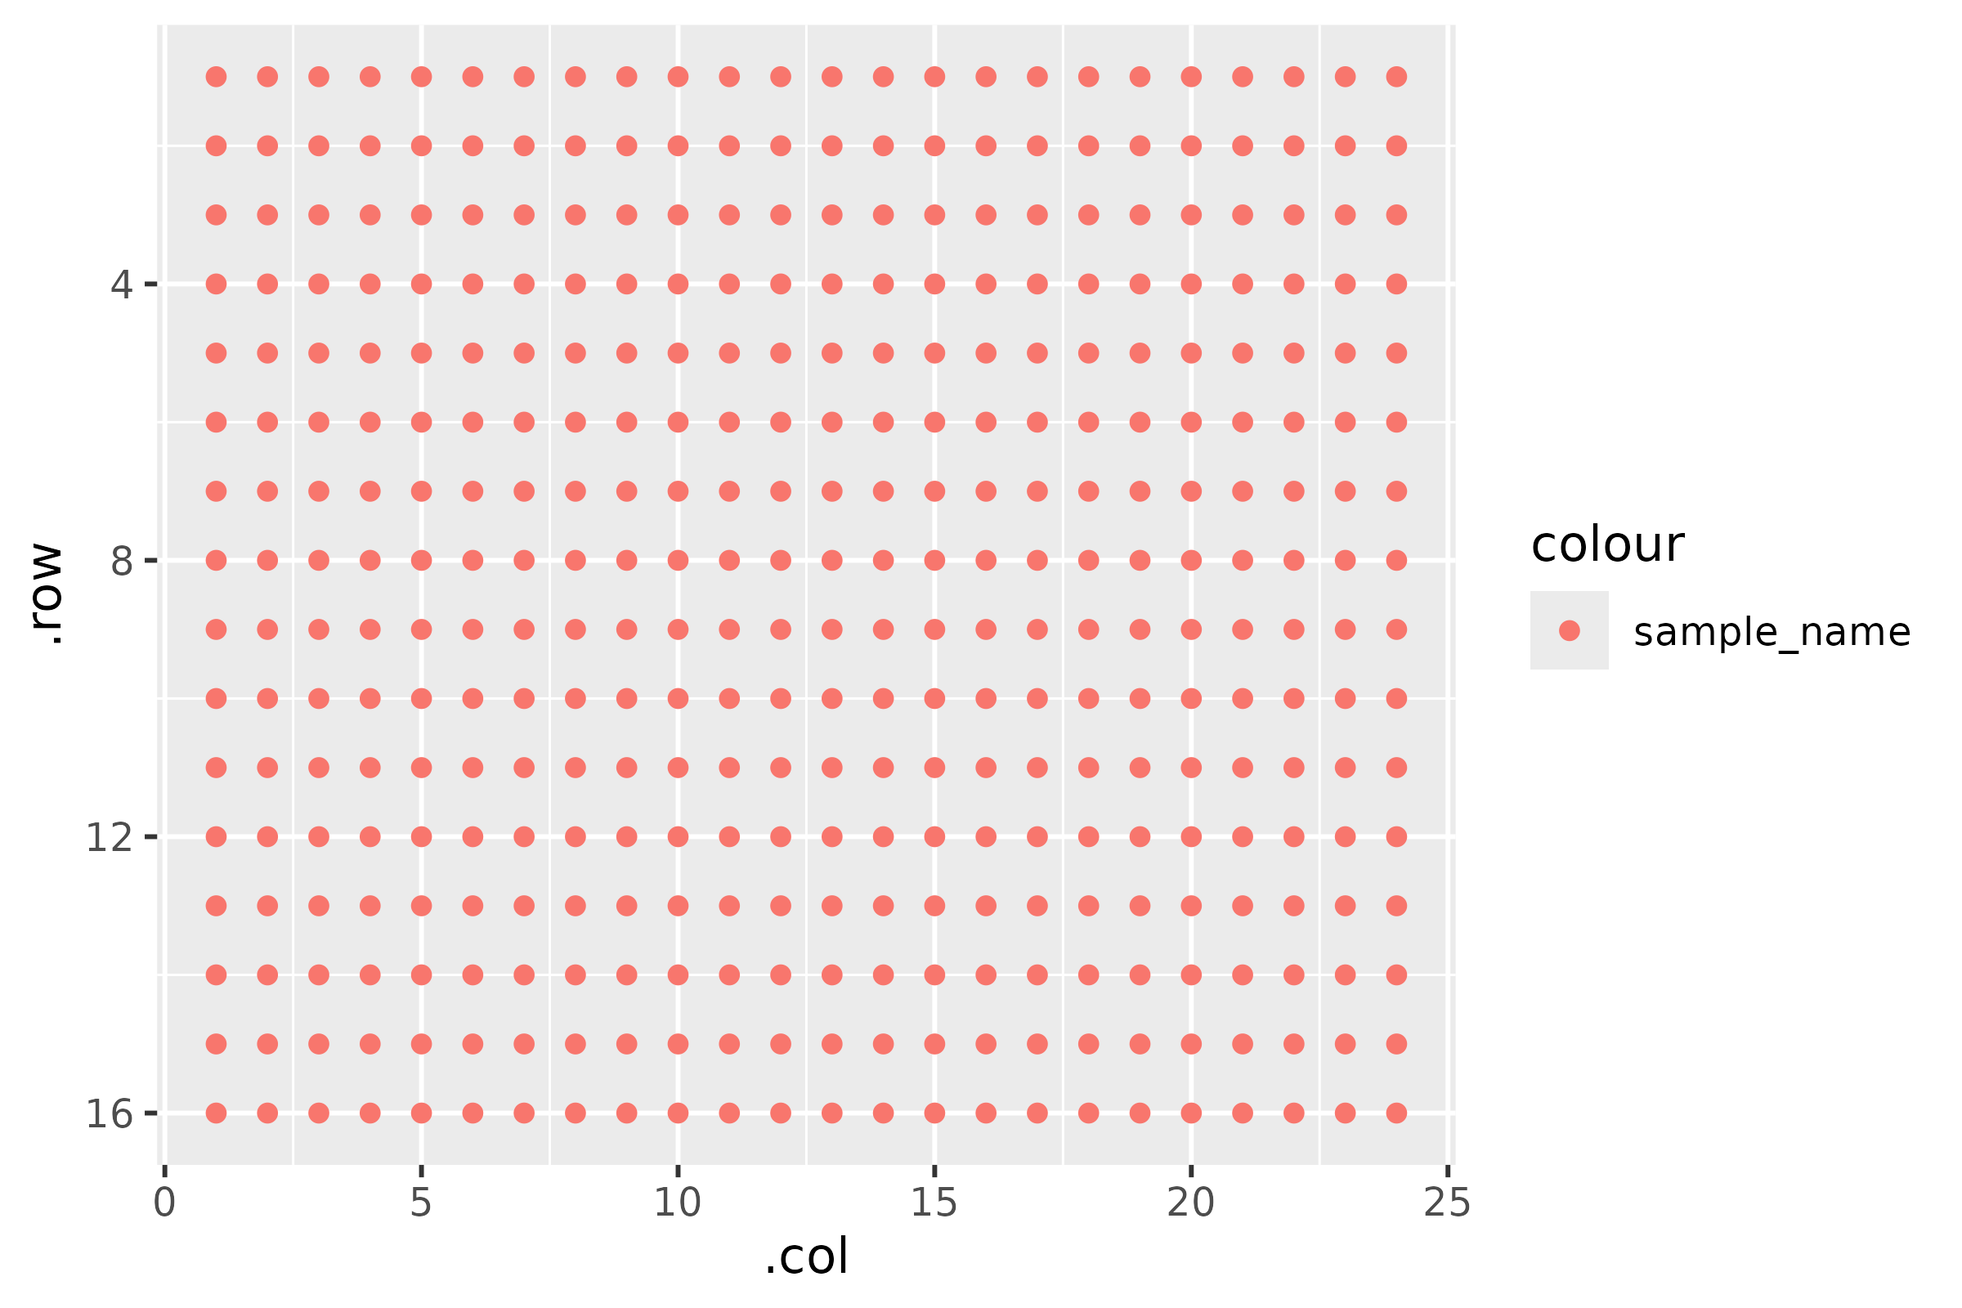
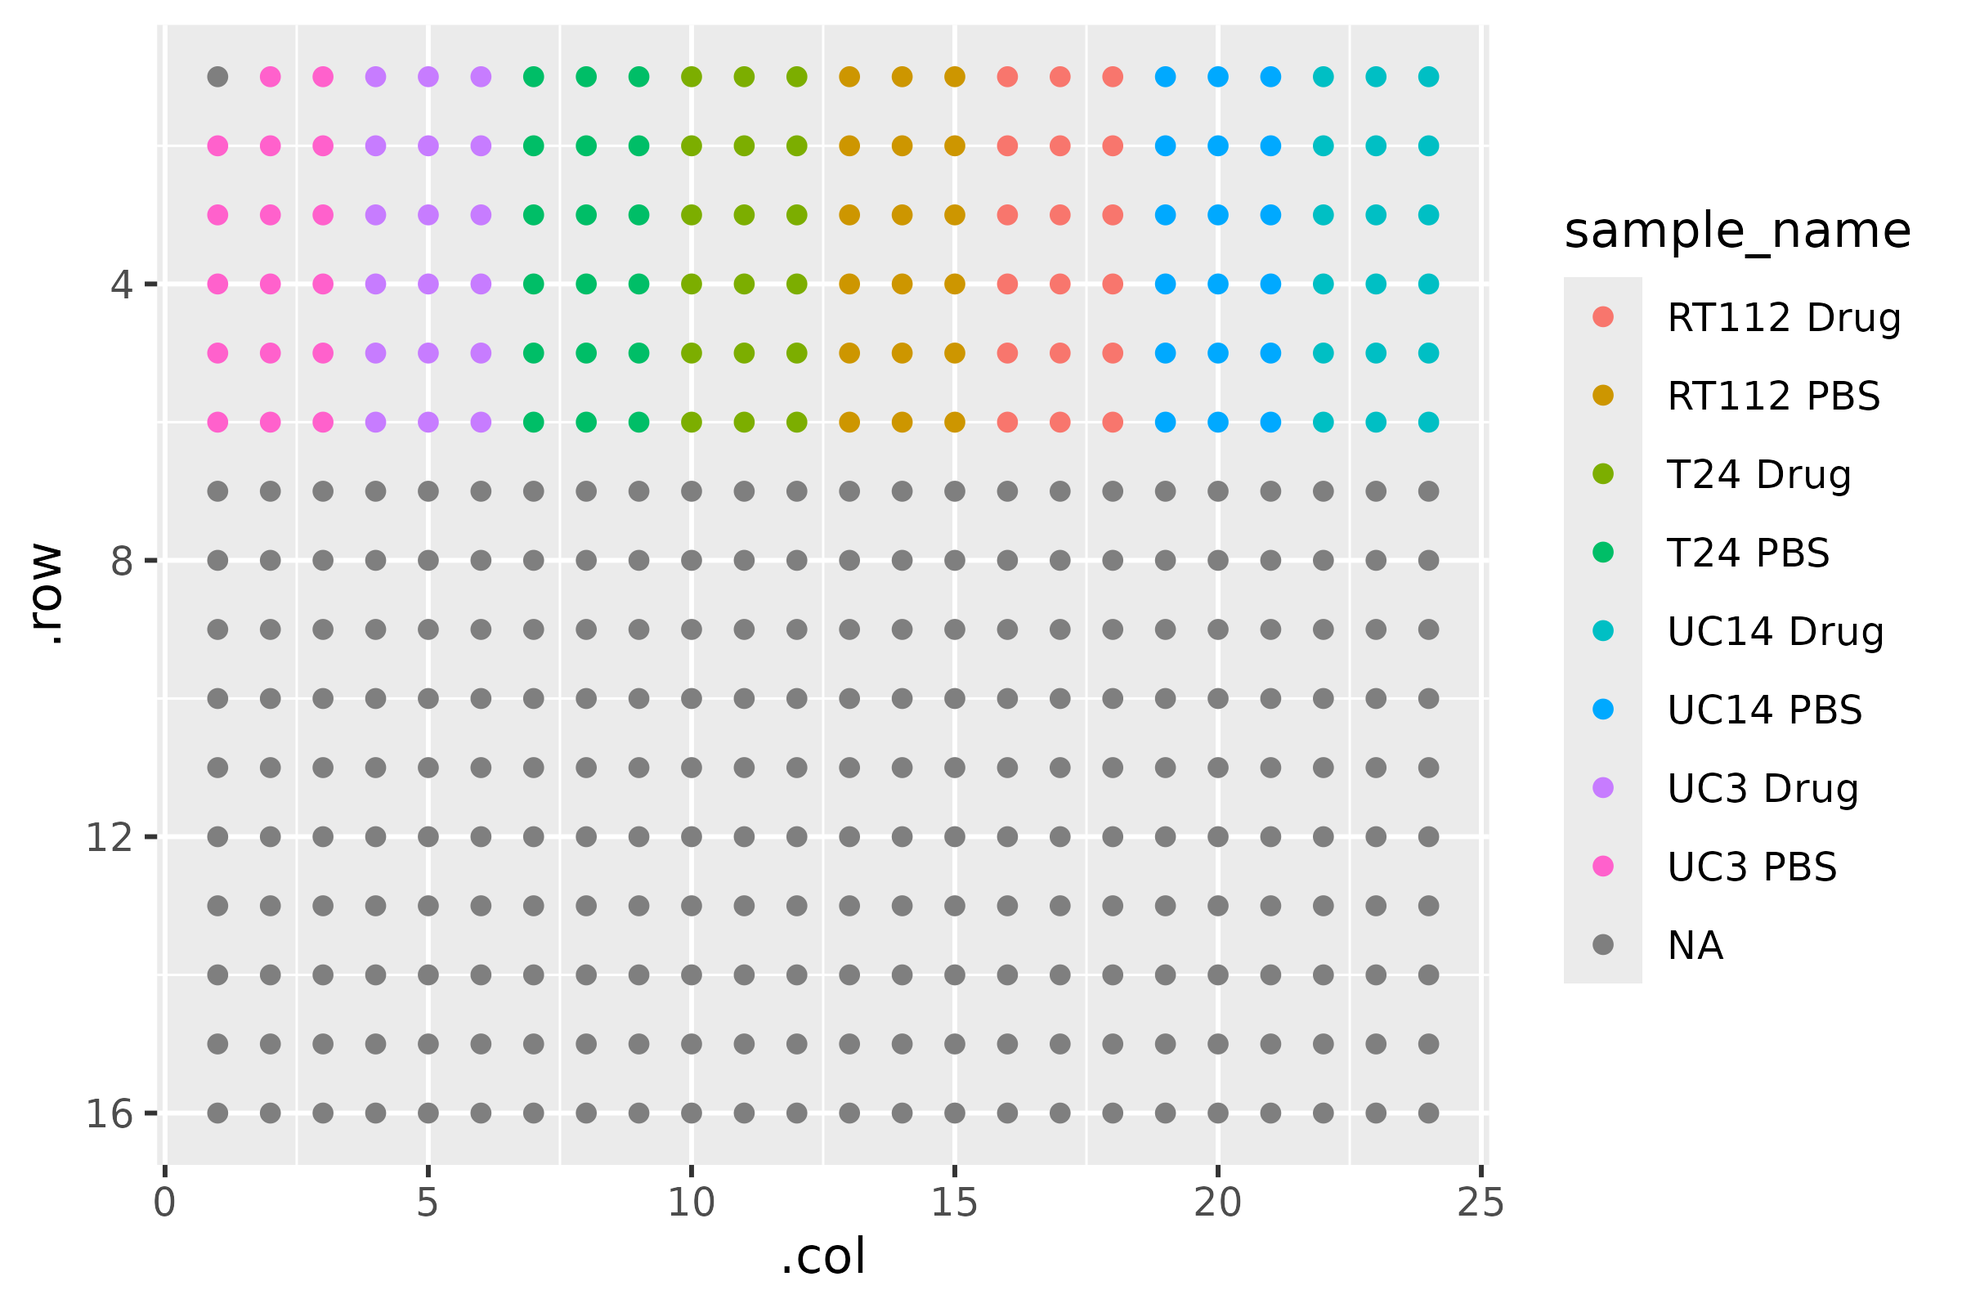
Deploying to gh-pages from @ KaiAragaki/amplify@96f5967ca5eb18fe3345773895a73796bcb9efaa 🚀

diff --git a/reference/pcr_plan_report.html b/reference/pcr_plan_report.html
@@ -66,7 +66,69 @@
     <div class="sourceCode"><pre class="sourceCode r"><code><span class="r-in"><span><span class="va">dummy_rna_conc</span> <span class="op">|&gt;</span></span></span>
 <span class="r-in"><span>  <span class="fu"><a href="pcr_plan.html">pcr_plan</a></span><span class="op">(</span>n_primers <span class="op">=</span> <span class="fl">3</span><span class="op">)</span> <span class="op">|&gt;</span></span></span>
 <span class="r-in"><span>  <span class="fu">pcr_plan_report</span><span class="op">(</span><span class="op">)</span></span></span>
-<span class="r-err co"><span class="r-pr">#&gt;</span> <span class="error">Error in Summary.factor(structure(c(1L, 1L, 1L, 1L, 1L, 1L, 1L, 1L, 1L, 1L, 1L, 1L, 1L, 1L, 1L, 1L, 1L, 1L, 1L, 1L, 1L, 1L, 1L, 1L, 1L, 1L, 1L, 2L, 2L, 2L, 2L, 2L, 2L, 2L, 2L, 2L, 2L, 2L, 2L, 2L, 2L, 2L, 2L, 2L, 2L, 2L, 2L, 2L, 2L, 2L, 2L, 2L, 2L, 2L, 3L, 3L, 3L, 3L, 3L, 3L, 3L, 3L, 3L, 3L, 3L, 3L, 3L, 3L, 3L, 3L, 3L, 3L, 3L, 3L, 3L, 3L, 3L, 3L, 3L, 3L, 3L, NA, NA, NA, NA, NA, NA, NA, NA, NA, NA, NA, NA, NA, NA, NA, NA, NA, NA, NA, NA, NA, NA, NA, NA, NA, NA, NA, NA, NA, NA, NA, NA, NA, NA, NA, NA, NA, NA, NA, NA, NA, NA, NA, NA, NA, NA, NA, NA, NA, NA, NA, NA, NA, NA, NA, NA, NA, NA, NA, NA, NA, NA, NA, NA, NA, NA, NA, NA, NA, NA, NA, NA, NA, NA, NA, NA, NA, NA, NA, NA, NA, NA, NA, NA, NA, NA, NA, NA, NA, NA, NA, NA, NA, NA, NA, NA, NA, NA, NA, NA, NA, NA, NA, NA, NA, NA, NA, NA, NA, NA, NA, NA, NA, NA, NA, NA, NA, NA, NA, NA, NA, NA, NA, NA, NA, NA, NA, NA, NA, NA, NA, NA, NA, NA, NA, NA, NA, NA, NA, NA, NA, NA, NA, NA, NA, NA, NA, NA, NA, NA, NA, NA, NA, NA, NA, NA, NA, NA, NA, NA, NA, NA, NA, NA, NA, NA, NA, NA, NA, NA, NA, NA, NA, NA, NA, NA, NA, NA, NA, NA, NA, NA, NA, NA, NA, NA, NA, NA, NA, NA, NA, NA, NA, NA, NA, NA, NA, NA, NA, NA, NA, NA, NA, NA, NA, NA, NA, NA, NA, NA, NA, NA, NA, NA, NA, NA, NA, NA, NA, NA, NA, NA, NA, NA, NA, NA, NA, NA, NA, NA, NA, NA, NA, NA, NA, NA, NA, NA, NA, NA, NA, NA, NA, NA, NA, NA, NA, NA, NA, NA, NA, NA, NA, NA, NA, NA, NA, NA, NA, NA, NA, NA, NA, NA, NA, NA, NA, NA, NA, NA, NA, NA, NA, NA, NA, NA, NA, NA, NA, NA, NA, NA, NA, NA, NA, NA, NA, NA, NA, NA, NA, NA, NA, NA, NA, NA, NA, NA, NA, NA, NA, NA, NA), levels = c("1", "2", "3"), class = "factor"),     na.rm = TRUE):</span> ‘max’ not meaningful for factors</span>
+<span class="r-msg co"><span class="r-pr">#&gt;</span> </span>
+<span class="r-msg co"><span class="r-pr">#&gt;</span> </span>
+<span class="r-msg co"><span class="r-pr">#&gt;</span> processing file: pcr_report-template.Rmd</span>
+<span class="r-out co"><span class="r-pr">#&gt;</span> 1/8                  </span>
+<span class="r-out co"><span class="r-pr">#&gt;</span> 2/8 [unnamed-chunk-1]</span>
+<span class="r-out co"><span class="r-pr">#&gt;</span> 3/8                  </span>
+<span class="r-out co"><span class="r-pr">#&gt;</span> 4/8 [unnamed-chunk-2]</span>
+<span class="r-out co"><span class="r-pr">#&gt;</span> 5/8                  </span>
+<span class="r-out co"><span class="r-pr">#&gt;</span> 6/8 [unnamed-chunk-3]</span>
+<span class="r-out co"><span class="r-pr">#&gt;</span> 7/8                  </span>
+<span class="r-out co"><span class="r-pr">#&gt;</span> 8/8 [unnamed-chunk-4]</span>
+<span class="r-msg co"><span class="r-pr">#&gt;</span> output file: pcr_report-template.knit.md</span>
+<span class="r-out co"><span class="r-pr">#&gt;</span> /opt/hostedtoolcache/pandoc/3.1.11/x64/pandoc +RTS -K512m -RTS pcr_report-template.knit.md --to html4 --from markdown+autolink_bare_uris+tex_math_single_backslash --output /tmp/RtmpkiZ8bd/2024-10-05_pcr-report_17262c4cde42.html --lua-filter /home/runner/work/_temp/Library/rmarkdown/rmarkdown/lua/pagebreak.lua --lua-filter /home/runner/work/_temp/Library/rmarkdown/rmarkdown/lua/latex-div.lua --embed-resources --standalone --variable bs3=TRUE --section-divs --template /home/runner/work/_temp/Library/rmarkdown/rmd/h/default.html --no-highlight --variable highlightjs=1 --variable theme=bootstrap --mathjax --variable 'mathjax-url=https://mathjax.rstudio.com/latest/MathJax.js?config=TeX-AMS-MML_HTMLorMML' --include-in-header /tmp/RtmpkiZ8bd/rmarkdown-str172635d1aa4a.html </span>
+<span class="r-msg co"><span class="r-pr">#&gt;</span> </span>
+<span class="r-msg co"><span class="r-pr">#&gt;</span> Output created: /tmp/RtmpkiZ8bd/2024-10-05_pcr-report_17262c4cde42.html</span>
+<span class="r-out co"><span class="r-pr">#&gt;</span> $mm_prep</span>
+<span class="r-out co"><span class="r-pr">#&gt;</span> <span style="color: #949494;"># A tibble: 4 × 2</span></span>
+<span class="r-out co"><span class="r-pr">#&gt;</span>   reagent             vol</span>
+<span class="r-out co"><span class="r-pr">#&gt;</span>   <span style="color: #949494; font-style: italic;">&lt;chr&gt;</span>             <span style="color: #949494; font-style: italic;">&lt;dbl&gt;</span></span>
+<span class="r-out co"><span class="r-pr">#&gt;</span> <span style="color: #BCBCBC;">1</span> 2X RT-PCR Buffer  206. </span>
+<span class="r-out co"><span class="r-pr">#&gt;</span> <span style="color: #BCBCBC;">2</span> Primer             20.6</span>
+<span class="r-out co"><span class="r-pr">#&gt;</span> <span style="color: #BCBCBC;">3</span> 25X RT-PCR Enzyme  16.5</span>
+<span class="r-out co"><span class="r-pr">#&gt;</span> <span style="color: #BCBCBC;">4</span> Nuclease Free H2O 103. </span>
+<span class="r-out co"><span class="r-pr">#&gt;</span> </span>
+<span class="r-out co"><span class="r-pr">#&gt;</span> $sample_prep</span>
+<span class="r-out co"><span class="r-pr">#&gt;</span> <span style="color: #949494;"># A tibble: 8 × 7</span></span>
+<span class="r-out co"><span class="r-pr">#&gt;</span>   sample       conc dilution_factor diluted_concentration diluted_rna_to_add</span>
+<span class="r-out co"><span class="r-pr">#&gt;</span>   <span style="color: #949494; font-style: italic;">&lt;chr&gt;</span>       <span style="color: #949494; font-style: italic;">&lt;dbl&gt;</span>           <span style="color: #949494; font-style: italic;">&lt;int&gt;</span>                 <span style="color: #949494; font-style: italic;">&lt;dbl&gt;</span>              <span style="color: #949494; font-style: italic;">&lt;dbl&gt;</span></span>
+<span class="r-out co"><span class="r-pr">#&gt;</span> <span style="color: #BCBCBC;">1</span> 24hr_DMSO_1 127.                1                 127.                1.18</span>
+<span class="r-out co"><span class="r-pr">#&gt;</span> <span style="color: #BCBCBC;">2</span> 48hr_DMSO_1  93                 1                  93                 1.61</span>
+<span class="r-out co"><span class="r-pr">#&gt;</span> <span style="color: #BCBCBC;">3</span> 24hr_1uM_1  143.                1                 143.                1.05</span>
+<span class="r-out co"><span class="r-pr">#&gt;</span> <span style="color: #BCBCBC;">4</span> 48hr_1uM_1   67.1               1                  67.1               2.24</span>
+<span class="r-out co"><span class="r-pr">#&gt;</span> <span style="color: #BCBCBC;">5</span> 24hr_DMSO_2  88.3               1                  88.3               1.70</span>
+<span class="r-out co"><span class="r-pr">#&gt;</span> <span style="color: #BCBCBC;">6</span> 48hr_DMSO_2 124.                1                 124.                1.21</span>
+<span class="r-out co"><span class="r-pr">#&gt;</span> <span style="color: #BCBCBC;">7</span> 24hr_1uM_2   94.2               1                  94.2               1.59</span>
+<span class="r-out co"><span class="r-pr">#&gt;</span> <span style="color: #BCBCBC;">8</span> 48hr_1uM_2   80.2               1                  80.2               1.87</span>
+<span class="r-out co"><span class="r-pr">#&gt;</span> <span style="color: #949494;"># ℹ 2 more variables: water_to_add &lt;dbl&gt;, final_vol &lt;dbl&gt;</span></span>
+<span class="r-out co"><span class="r-pr">#&gt;</span> </span>
+<span class="r-out co"><span class="r-pr">#&gt;</span> $plate</span>
+<span class="r-out co"><span class="r-pr">#&gt;</span> </span>
+<span class="r-out co"><span class="r-pr">#&gt;</span> <span style="color: #555555;">      </span>3</span>
+<span class="r-out co"><span class="r-pr">#&gt;</span> <span style="color: #555555;">   ______</span></span>
+<span class="r-out co"><span class="r-pr">#&gt;</span> 1<span style="color: #555555;"> | ◯ ◯ ◯</span></span>
+<span class="r-out co"><span class="r-pr">#&gt;</span> </span>
+<span class="r-out co"><span class="r-pr">#&gt;</span> </span>
+<span class="r-msg co"><span class="r-pr">#&gt;</span> <span style="color: #555555;">Start corner: </span>tl</span>
+<span class="r-msg co"><span class="r-pr">#&gt;</span> <span style="color: #555555;">Plate dimensions: </span>16 x 24</span>
+<span class="r-out co"><span class="r-pr">#&gt;</span> </span>
+<span class="r-out co"><span class="r-pr">#&gt;</span> $n_primers</span>
+<span class="r-out co"><span class="r-pr">#&gt;</span> [1] 3</span>
+<span class="r-out co"><span class="r-pr">#&gt;</span> </span>
+<span class="r-out co"><span class="r-pr">#&gt;</span> $format</span>
+<span class="r-out co"><span class="r-pr">#&gt;</span> [1] "384"</span>
+<span class="r-out co"><span class="r-pr">#&gt;</span> </span>
+<span class="r-out co"><span class="r-pr">#&gt;</span> $exclude_border</span>
+<span class="r-out co"><span class="r-pr">#&gt;</span> [1] TRUE</span>
+<span class="r-out co"><span class="r-pr">#&gt;</span> </span>
+<span class="r-out co"><span class="r-pr">#&gt;</span> $primer_names</span>
+<span class="r-out co"><span class="r-pr">#&gt;</span> NULL</span>
+<span class="r-out co"><span class="r-pr">#&gt;</span> </span>
+<span class="r-out co"><span class="r-pr">#&gt;</span> $file_path</span>
+<span class="r-out co"><span class="r-pr">#&gt;</span> [1] "/tmp/RtmpkiZ8bd/2024-10-05_pcr-report_17262c4cde42.html"</span>
+<span class="r-out co"><span class="r-pr">#&gt;</span> </span>
 </code></pre></div>
     </div>
   </main><aside class="col-md-3"><nav id="toc" aria-label="Table of contents"><h2>On this page</h2>

diff --git a/reference/pcr_plan.html b/reference/pcr_plan.html
@@ -93,7 +93,51 @@
     <h2 id="ref-examples">Examples<a class="anchor" aria-label="anchor" href="#ref-examples"></a></h2>
     <div class="sourceCode"><pre class="sourceCode r"><code><span class="r-in"><span><span class="va">dummy_rna_conc</span> <span class="op">|&gt;</span></span></span>
 <span class="r-in"><span>  <span class="fu">pcr_plan</span><span class="op">(</span>n_primers <span class="op">=</span> <span class="fl">3</span><span class="op">)</span></span></span>
-<span class="r-err co"><span class="r-pr">#&gt;</span> <span class="error">Error in Summary.factor(structure(c(1L, 1L, 1L, 1L, 1L, 1L, 1L, 1L, 1L, 1L, 1L, 1L, 1L, 1L, 1L, 1L, 1L, 1L, 1L, 1L, 1L, 1L, 1L, 1L, 1L, 1L, 1L, 2L, 2L, 2L, 2L, 2L, 2L, 2L, 2L, 2L, 2L, 2L, 2L, 2L, 2L, 2L, 2L, 2L, 2L, 2L, 2L, 2L, 2L, 2L, 2L, 2L, 2L, 2L, 3L, 3L, 3L, 3L, 3L, 3L, 3L, 3L, 3L, 3L, 3L, 3L, 3L, 3L, 3L, 3L, 3L, 3L, 3L, 3L, 3L, 3L, 3L, 3L, 3L, 3L, 3L, NA, NA, NA, NA, NA, NA, NA, NA, NA, NA, NA, NA, NA, NA, NA, NA, NA, NA, NA, NA, NA, NA, NA, NA, NA, NA, NA, NA, NA, NA, NA, NA, NA, NA, NA, NA, NA, NA, NA, NA, NA, NA, NA, NA, NA, NA, NA, NA, NA, NA, NA, NA, NA, NA, NA, NA, NA, NA, NA, NA, NA, NA, NA, NA, NA, NA, NA, NA, NA, NA, NA, NA, NA, NA, NA, NA, NA, NA, NA, NA, NA, NA, NA, NA, NA, NA, NA, NA, NA, NA, NA, NA, NA, NA, NA, NA, NA, NA, NA, NA, NA, NA, NA, NA, NA, NA, NA, NA, NA, NA, NA, NA, NA, NA, NA, NA, NA, NA, NA, NA, NA, NA, NA, NA, NA, NA, NA, NA, NA, NA, NA, NA, NA, NA, NA, NA, NA, NA, NA, NA, NA, NA, NA, NA, NA, NA, NA, NA, NA, NA, NA, NA, NA, NA, NA, NA, NA, NA, NA, NA, NA, NA, NA, NA, NA, NA, NA, NA, NA, NA, NA, NA, NA, NA, NA, NA, NA, NA, NA, NA, NA, NA, NA, NA, NA, NA, NA, NA, NA, NA, NA, NA, NA, NA, NA, NA, NA, NA, NA, NA, NA, NA, NA, NA, NA, NA, NA, NA, NA, NA, NA, NA, NA, NA, NA, NA, NA, NA, NA, NA, NA, NA, NA, NA, NA, NA, NA, NA, NA, NA, NA, NA, NA, NA, NA, NA, NA, NA, NA, NA, NA, NA, NA, NA, NA, NA, NA, NA, NA, NA, NA, NA, NA, NA, NA, NA, NA, NA, NA, NA, NA, NA, NA, NA, NA, NA, NA, NA, NA, NA, NA, NA, NA, NA, NA, NA, NA, NA, NA, NA, NA, NA, NA, NA, NA, NA, NA, NA, NA, NA, NA, NA, NA, NA, NA, NA, NA, NA, NA, NA, NA, NA, NA), levels = c("1", "2", "3"), class = "factor"),     na.rm = TRUE):</span> ‘max’ not meaningful for factors</span>
+<span class="r-out co"><span class="r-pr">#&gt;</span> $mm_prep</span>
+<span class="r-out co"><span class="r-pr">#&gt;</span> <span style="color: #949494;"># A tibble: 4 × 2</span></span>
+<span class="r-out co"><span class="r-pr">#&gt;</span>   reagent             vol</span>
+<span class="r-out co"><span class="r-pr">#&gt;</span>   <span style="color: #949494; font-style: italic;">&lt;chr&gt;</span>             <span style="color: #949494; font-style: italic;">&lt;dbl&gt;</span></span>
+<span class="r-out co"><span class="r-pr">#&gt;</span> <span style="color: #BCBCBC;">1</span> 2X RT-PCR Buffer  206. </span>
+<span class="r-out co"><span class="r-pr">#&gt;</span> <span style="color: #BCBCBC;">2</span> Primer             20.6</span>
+<span class="r-out co"><span class="r-pr">#&gt;</span> <span style="color: #BCBCBC;">3</span> 25X RT-PCR Enzyme  16.5</span>
+<span class="r-out co"><span class="r-pr">#&gt;</span> <span style="color: #BCBCBC;">4</span> Nuclease Free H2O 103. </span>
+<span class="r-out co"><span class="r-pr">#&gt;</span> </span>
+<span class="r-out co"><span class="r-pr">#&gt;</span> $sample_prep</span>
+<span class="r-out co"><span class="r-pr">#&gt;</span> <span style="color: #949494;"># A tibble: 8 × 7</span></span>
+<span class="r-out co"><span class="r-pr">#&gt;</span>   sample       conc dilution_factor diluted_concentration diluted_rna_to_add</span>
+<span class="r-out co"><span class="r-pr">#&gt;</span>   <span style="color: #949494; font-style: italic;">&lt;chr&gt;</span>       <span style="color: #949494; font-style: italic;">&lt;dbl&gt;</span>           <span style="color: #949494; font-style: italic;">&lt;int&gt;</span>                 <span style="color: #949494; font-style: italic;">&lt;dbl&gt;</span>              <span style="color: #949494; font-style: italic;">&lt;dbl&gt;</span></span>
+<span class="r-out co"><span class="r-pr">#&gt;</span> <span style="color: #BCBCBC;">1</span> 24hr_DMSO_1 127.                1                 127.                1.18</span>
+<span class="r-out co"><span class="r-pr">#&gt;</span> <span style="color: #BCBCBC;">2</span> 48hr_DMSO_1  93                 1                  93                 1.61</span>
+<span class="r-out co"><span class="r-pr">#&gt;</span> <span style="color: #BCBCBC;">3</span> 24hr_1uM_1  143.                1                 143.                1.05</span>
+<span class="r-out co"><span class="r-pr">#&gt;</span> <span style="color: #BCBCBC;">4</span> 48hr_1uM_1   67.1               1                  67.1               2.24</span>
+<span class="r-out co"><span class="r-pr">#&gt;</span> <span style="color: #BCBCBC;">5</span> 24hr_DMSO_2  88.3               1                  88.3               1.70</span>
+<span class="r-out co"><span class="r-pr">#&gt;</span> <span style="color: #BCBCBC;">6</span> 48hr_DMSO_2 124.                1                 124.                1.21</span>
+<span class="r-out co"><span class="r-pr">#&gt;</span> <span style="color: #BCBCBC;">7</span> 24hr_1uM_2   94.2               1                  94.2               1.59</span>
+<span class="r-out co"><span class="r-pr">#&gt;</span> <span style="color: #BCBCBC;">8</span> 48hr_1uM_2   80.2               1                  80.2               1.87</span>
+<span class="r-out co"><span class="r-pr">#&gt;</span> <span style="color: #949494;"># ℹ 2 more variables: water_to_add &lt;dbl&gt;, final_vol &lt;dbl&gt;</span></span>
+<span class="r-out co"><span class="r-pr">#&gt;</span> </span>
+<span class="r-out co"><span class="r-pr">#&gt;</span> $plate</span>
+<span class="r-out co"><span class="r-pr">#&gt;</span> </span>
+<span class="r-out co"><span class="r-pr">#&gt;</span> <span style="color: #555555;">      </span>3</span>
+<span class="r-out co"><span class="r-pr">#&gt;</span> <span style="color: #555555;">   ______</span></span>
+<span class="r-out co"><span class="r-pr">#&gt;</span> 1<span style="color: #555555;"> | ◯ ◯ ◯</span></span>
+<span class="r-out co"><span class="r-pr">#&gt;</span> </span>
+<span class="r-out co"><span class="r-pr">#&gt;</span> </span>
+<span class="r-msg co"><span class="r-pr">#&gt;</span> <span style="color: #555555;">Start corner: </span>tl</span>
+<span class="r-msg co"><span class="r-pr">#&gt;</span> <span style="color: #555555;">Plate dimensions: </span>16 x 24</span>
+<span class="r-out co"><span class="r-pr">#&gt;</span> </span>
+<span class="r-out co"><span class="r-pr">#&gt;</span> $n_primers</span>
+<span class="r-out co"><span class="r-pr">#&gt;</span> [1] 3</span>
+<span class="r-out co"><span class="r-pr">#&gt;</span> </span>
+<span class="r-out co"><span class="r-pr">#&gt;</span> $format</span>
+<span class="r-out co"><span class="r-pr">#&gt;</span> [1] "384"</span>
+<span class="r-out co"><span class="r-pr">#&gt;</span> </span>
+<span class="r-out co"><span class="r-pr">#&gt;</span> $exclude_border</span>
+<span class="r-out co"><span class="r-pr">#&gt;</span> [1] TRUE</span>
+<span class="r-out co"><span class="r-pr">#&gt;</span> </span>
+<span class="r-out co"><span class="r-pr">#&gt;</span> $primer_names</span>
+<span class="r-out co"><span class="r-pr">#&gt;</span> NULL</span>
+<span class="r-out co"><span class="r-pr">#&gt;</span> </span>
 </code></pre></div>
     </div>
   </main><aside class="col-md-3"><nav id="toc" aria-label="Table of contents"><h2>On this page</h2>

diff --git a/articles/analyzing-ddctqrtpcr.html b/articles/analyzing-ddctqrtpcr.html
@@ -196,7 +196,7 @@ non-targeting controls - only have two instead of three wells ascribed
 to them.</p>
 <p>What about the <em>sample</em> layout?</p>
 <div class="sourceCode" id="cb5"><pre class="downlit sourceCode r">
-<code class="sourceCode R"><span><span class="fu"><a href="../reference/pcr_plate_view.html">pcr_plate_view</a></span><span class="op">(</span><span class="va">dat</span>, <span class="st">"sample_name"</span><span class="op">)</span></span></code></pre></div>
+<code class="sourceCode R"><span><span class="fu"><a href="../reference/pcr_plate_view.html">pcr_plate_view</a></span><span class="op">(</span><span class="va">dat</span>, <span class="va">sample_name</span><span class="op">)</span></span></code></pre></div>
 <p><img src="analyzing-ddctqrtpcr_files/figure-html/plot_plate_sample-1.png" width="100%"></p>
 <p>We can also look at CT:</p>
 <div class="sourceCode" id="cb6"><pre class="downlit sourceCode r">
